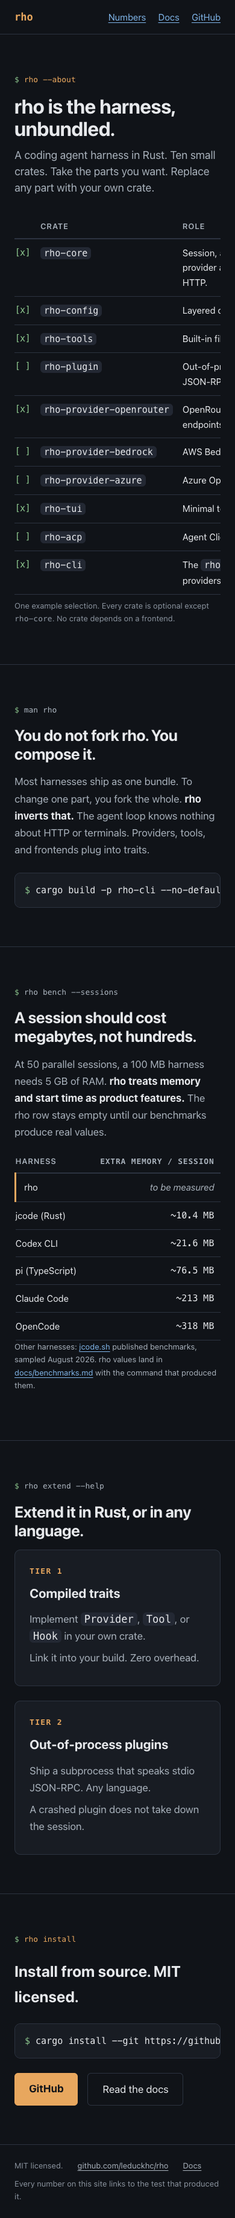
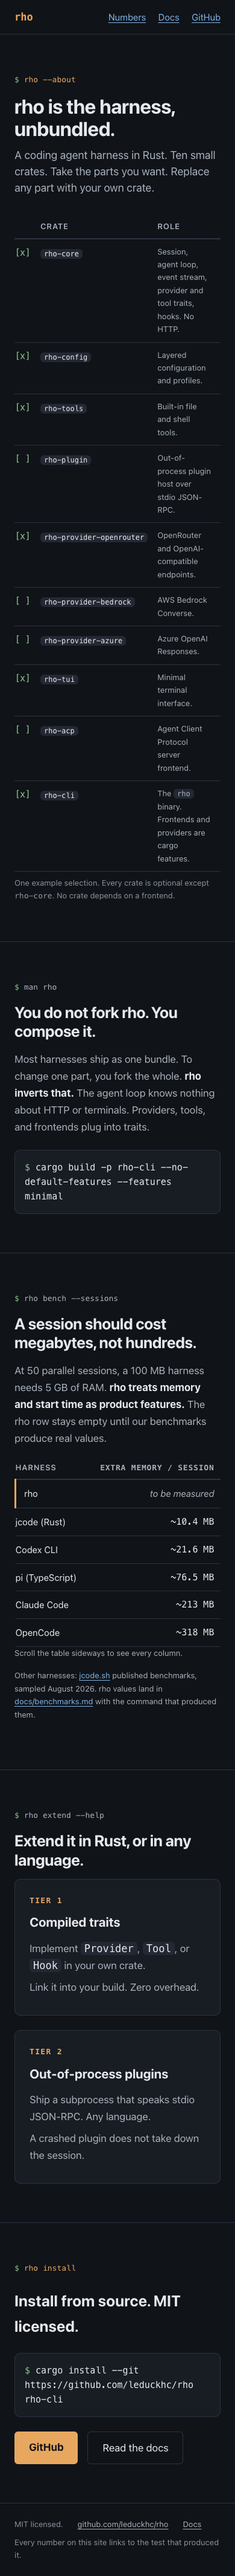
fix(web): stop hiding content on narrow screens
The crate table and the command blocks were wider than the viewport. The
wrappers scrolled, but a touch device shows no scrollbar at rest, so the
content looked cut off.

Let the crate table wrap instead of scroll. Wrapping keeps the real table
semantics, so a screen reader still pairs each cell with its header.

Set pre-wrap on the command blocks. That wraps for the eye only and
inserts no newline, so a copy still yields the original command.

Keep the cost table scrollable, because it carries real tabular meaning,
and say so in one line of text that only narrow screens show.

Desktop is byte-identical in height to the approved mockup.

diff --git a/web/src/styles/site.css b/web/src/styles/site.css
@@ -207,6 +207,31 @@ footer .row {
 }
 footer a { color: var(--muted); }
 
+/* The hint is for narrow screens only. A wide screen shows every column. */
+.scrollhint {
+  display: none;
+  color: var(--faint); font-size: var(--fs-caption); margin: 8px 0 0;
+}
+
+@media (max-width: 640px) {
+  /* The crate table has only three columns. Let it wrap instead of scroll.
+     Wrapping keeps the real table semantics, so a screen reader still pairs
+     each cell with its header. A restacked block layout would lose that. */
+  .hero .tablewrap { overflow-x: visible; }
+  .hero .tablewrap table { min-width: 0; }
+  .hero table td:last-child { font-size: var(--fs-caption); color: var(--muted); }
+  .hero table td code { font-size: 12px; }
+
+  /* A long command must stay one logical line, because a reader copies it.
+     `pre-wrap` wraps for the eye only. It inserts no newline, so a copy still
+     yields the original command. That removes the hidden scroll. */
+  pre.block { white-space: pre-wrap; overflow-wrap: anywhere; overflow-x: visible; }
+
+  /* The cost table carries real tabular meaning, so it keeps scrolling.
+     A touch device shows no scrollbar at rest, so say so in words. */
+  .scrollhint { display: block; }
+}
+
 @media (max-width: 480px) {
   .screen { padding: 64px 24px; }
   .hero h1 { font-size: var(--fs-h1); }
